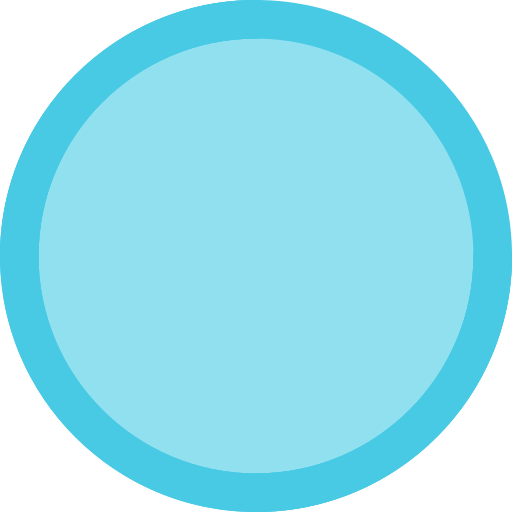
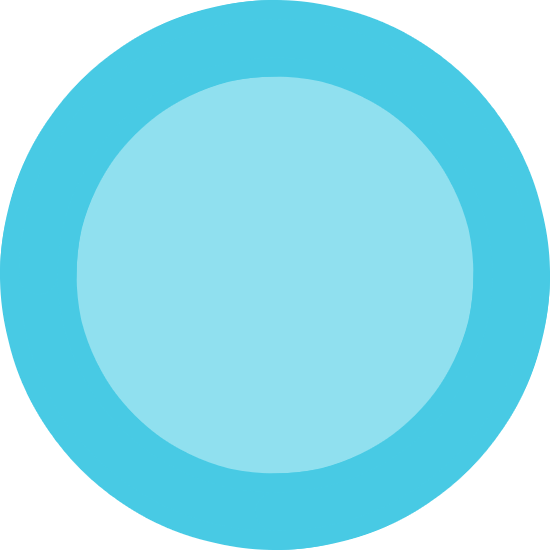
Optical improvements

Changed region(s): [[0.0625, 0.0625, 0.9375, 0.9375]]

diff --git a/antistract/MVVM/View/HomeView.xaml b/antistract/MVVM/View/HomeView.xaml
@@ -44,7 +44,7 @@
                                FontSize="28" 
                                HorizontalAlignment="left"
                                Margin="20,20,0,20"
-                               FontFamily="/Fonts/#Joan"
+                               FontFamily="/Fonts/#Dosis"
                                FontWeight="Bold"/>
                     <TextBlock x:Name="HeyName" 
                                Text="{Binding Source={x:Static properties:Settings.Default}, Path=Username, Mode=TwoWay}"
@@ -52,14 +52,14 @@
                                FontSize="28" 
                                HorizontalAlignment="left"
                                Margin="0,20,0,20"
-                               FontFamily="/Fonts/#Joan"
+                               FontFamily="/Fonts/#Dosis"
                                FontWeight="Bold"/>
                     <TextBlock Text="!"
                                Foreground="#114B5F"
                                FontSize="28" 
                                HorizontalAlignment="left"
                                Margin="1,20,0,20"
-                               FontFamily="/Fonts/#Joan"
+                               FontFamily="/Fonts/#Dosis"
                                FontWeight="Bold"/>
                 </StackPanel>
 
@@ -69,8 +69,8 @@
                     HorizontalAlignment="Left" Margin="25,0,12.5,0">
                         <Border.Background>
                             <LinearGradientBrush StartPoint="0,0" EndPoint="1,2">
-                                <GradientStop Color="#88D498" Offset="0.0" />
-                                <GradientStop Color="#1A936F" Offset="1" />
+                                <GradientStop Color="#CAF0F8" Offset="0.0" />
+                                <GradientStop Color="#90E0EF" Offset="1" />
                             </LinearGradientBrush>
                         </Border.Background>
                         <Border.Clip>
@@ -84,7 +84,7 @@
                            Height="167"
                            Source="/Images/heart_book.png"
                            HorizontalAlignment="Right"
-                           VerticalAlignment="Bottom" Margin="0,0,-31,1" RenderTransformOrigin="0.5,0.5">
+                           VerticalAlignment="Bottom" Margin="0,0,-35,-4" RenderTransformOrigin="0.5,0.5">
                                 <Image.RenderTransform>
                                     <TransformGroup>
                                         <RotateTransform Angle="-16.852"/>
@@ -97,13 +97,13 @@
                                    Foreground="#114B5F"
                                    FontSize="45"
                                    Margin="20,10,10,0" 
-                                   FontFamily="/Fonts/#Joan"/>
+                                   FontFamily="/Fonts/#Dosis"/>
 
                                 <TextBlock Text="you've studied"
                                    Foreground="#114B5F"
                                    FontSize="28"
                                    Margin="20,10,10,0" 
-                                   FontFamily="/Fonts/#Joan"/>
+                                   FontFamily="/Fonts/#Dosis"/>
 
                                 <StackPanel Orientation="Horizontal">
 
@@ -112,7 +112,7 @@
                                        FontSize="28"
                                        Margin="20,10,0,0" 
                                        HorizontalAlignment="Left"
-                                       FontFamily="/Fonts/#Joan"/>
+                                       FontFamily="/Fonts/#Dosis"/>
 
                                     <TextBlock x:Name="WeekStudyHours" 
                                        Text="00"
@@ -120,7 +120,7 @@
                                        FontSize="40"
                                        Margin="0,10,0,0" 
                                        HorizontalAlignment="Left"
-                                       FontFamily="/Fonts/#Joan"/>
+                                       FontFamily="/Fonts/#Dosis"/>
 
                                     <TextBlock x:Name="TimeUnit"
                                        Text="  hours."
@@ -128,7 +128,7 @@
                                        FontSize="28"
                                        Margin="0,10,0,0" 
                                        HorizontalAlignment="Left"
-                                       FontFamily="/Fonts/#Joan"/>
+                                       FontFamily="/Fonts/#Dosis"/>
                                 </StackPanel>
                             </StackPanel>
                         </Grid>
@@ -139,8 +139,8 @@
                     HorizontalAlignment="Right" Margin="12.5,0,25,0">
                         <Border.Background>
                             <LinearGradientBrush StartPoint="0,0" EndPoint="1,2">
-                                <GradientStop Color="#84F1FF" Offset="0.0" />
-                                <GradientStop Color="#FF006977" Offset="1" />
+                                <GradientStop Color="#90E0EF" Offset="0.0" />
+                                <GradientStop Color="#CAF0F8" Offset="1" />
                             </LinearGradientBrush>
                         </Border.Background>
                         <Border.Clip>
@@ -170,7 +170,7 @@
                                    Foreground="#114B5F"
                                    FontSize="45"
                                    Margin="20,10,10,0" 
-                                   FontFamily="/Fonts/#Joan"/>
+                                   FontFamily="/Fonts/#Dosis"/>
 
                                 <StackPanel Orientation="Horizontal">
                                     <TextBlock x:Name="WeekTasksCompleted" 
@@ -178,14 +178,14 @@
                                        Foreground="#114B5F"
                                        FontSize="40"
                                        Margin="20,5,0,0" 
-                                       FontFamily="/Fonts/#Joan"/>
+                                       FontFamily="/Fonts/#Dosis"/>
 
                                     <TextBlock Text="  tasks"
                                        Foreground="#114B5F"
                                        FontSize="28"
                                        Margin="0,10,0,0" 
                                        HorizontalAlignment="Left"
-                                       FontFamily="/Fonts/#Joan"/>
+                                       FontFamily="/Fonts/#Dosis"/>
 
                                 </StackPanel>
                                 <TextBlock Text="off your to-do list."
@@ -193,7 +193,7 @@
                                    FontSize="28"
                                    Margin="20,0,0,0" 
                                    HorizontalAlignment="Left"
-                                   FontFamily="/Fonts/#Joan"/>
+                                   FontFamily="/Fonts/#Dosis"/>
                             </StackPanel>
                         </Grid>
                     </Border>
@@ -210,7 +210,7 @@
                        FontSize="40"
                        Margin="0,30,0,0" 
                        HorizontalAlignment="Center"
-                       FontFamily="/Fonts/#Joan" />
+                       FontFamily="/Fonts/#Dosis" />
 
                         <TextBlock x:Name="MotivationMessage"
                        Text="Let's see what you will accomplish today."
@@ -218,7 +218,7 @@
                        FontSize="30"
                        Margin="0,30,0,0" 
                        HorizontalAlignment="Center"
-                       FontFamily="/Fonts/#Joan" />
+                       FontFamily="/Fonts/#Dosis" />
                     </StackPanel>
                 </Border>
 

diff --git a/antistract/MVVM/View/ProductivityView.xaml b/antistract/MVVM/View/ProductivityView.xaml
@@ -348,13 +348,15 @@
                                  Click="EditPrograms_Click"/>
                     <Image x:Name="Programs_circle" 
                            Source="/Images/circle.png" 
-                           Margin="-250,7,0,0"
-                           Height="18"/>
+                           Margin="-250,4.5,0,0"
+                           Height="18"
+                           RenderOptions.BitmapScalingMode="HighQuality"/>
                     <Image x:Name="Programs_circle_checked" 
                            Source="/Images/circle_checked.png" 
-                           Margin="-250,7,0,0"
+                           Margin="-250,4.5,0,0"
                            Height="18"
-                           Visibility="Hidden"/>
+                           Visibility="Hidden"
+                           RenderOptions.BitmapScalingMode="HighQuality"/>
                 </StackPanel>
 
                 <StackPanel Orientation="Horizontal"
@@ -382,13 +384,15 @@
 
                     <Image x:Name="Websites_circle" 
                            Source="/Images/circle.png" 
-                           Margin="-250,7,0,0"
-                           Height="18"/>
+                           Margin="-250,4.5,0,0"
+                           Height="18"
+                           RenderOptions.BitmapScalingMode="HighQuality"/>
                     <Image x:Name="Websites_circle_checked" 
                            Source="/Images/circle_checked.png" 
-                           Margin="-250,7,0,0"
+                           Margin="-250,4.5,0,0"
                            Height="18"
-                           Visibility="Hidden"/>
+                           Visibility="Hidden"
+                           RenderOptions.BitmapScalingMode="HighQuality"/>
                 </StackPanel>
 
                 <!--Blacklists area-->

diff --git a/antistract/Theme/BlacklistTickbox.xaml b/antistract/Theme/BlacklistTickbox.xaml
@@ -19,7 +19,7 @@
                                 <TextBlock Text="{TemplateBinding Property=Content}"
                                        VerticalAlignment="Center" 
                                            HorizontalAlignment="Center"
-                                       Margin="10,0,5,0"
+                                       Margin="10,-4,5,0"
                                        FontFamily="/Fonts/#Dosis"
                                            FontSize="21"
                                            FontWeight="Regular"
